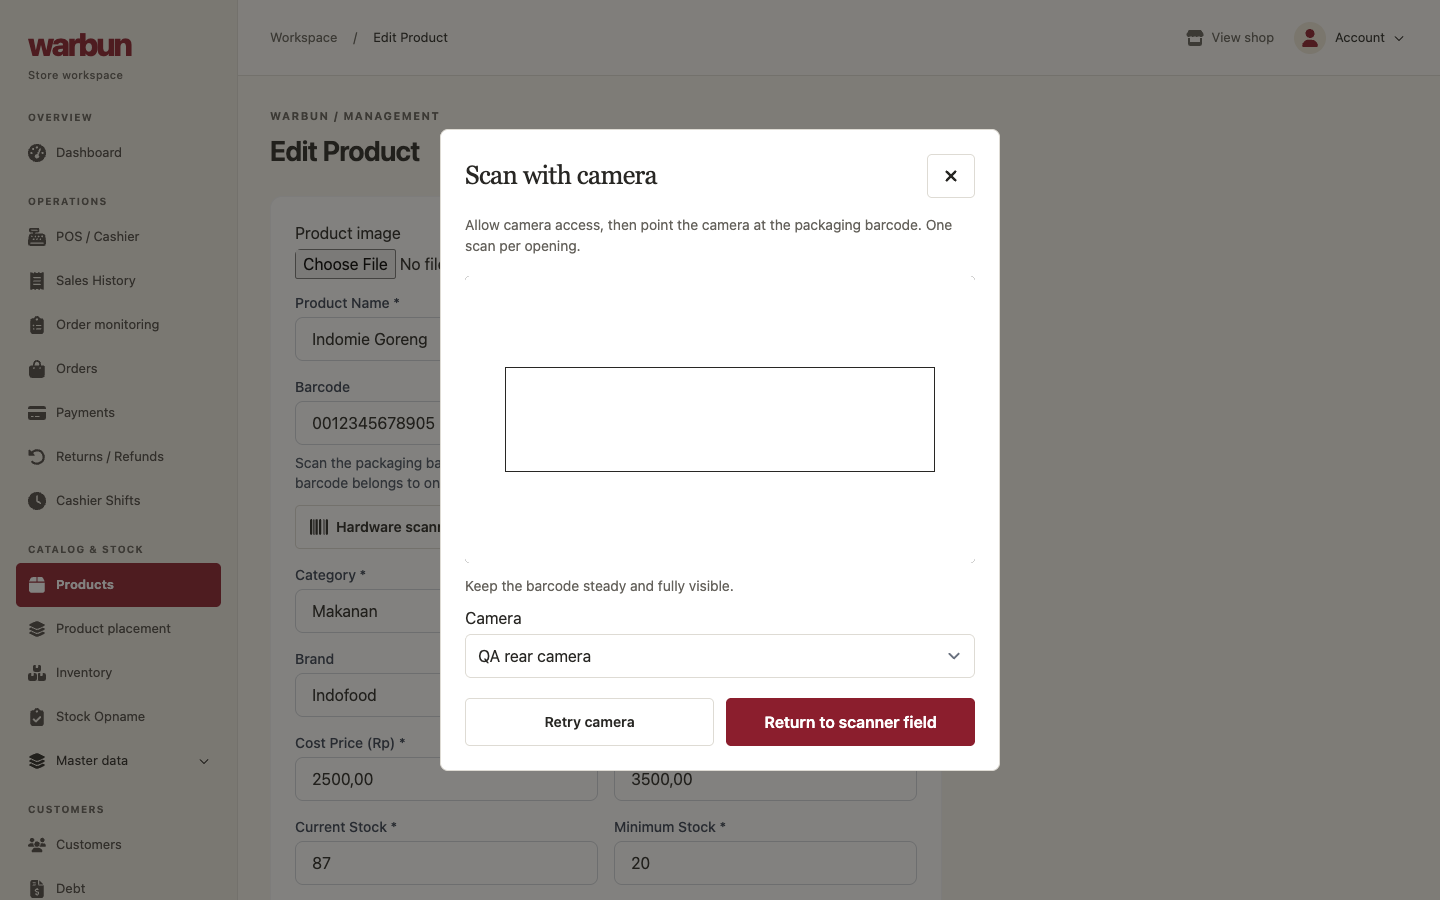
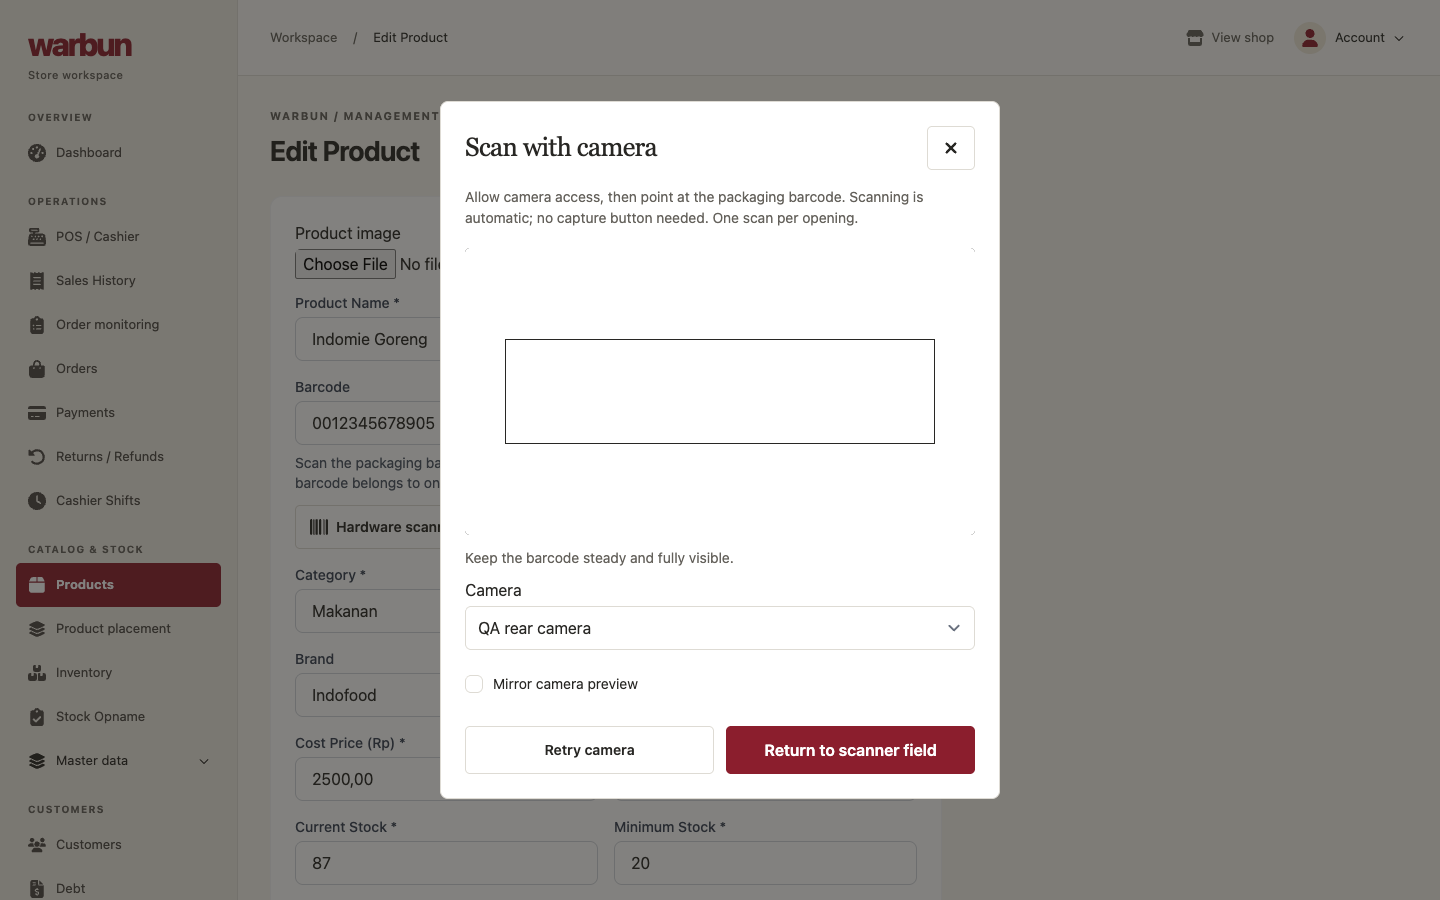
Add persisted camera mirror toggle and clarify automatic scanning

Changed region(s): [[0.2812, 0.5911, 0.7188, 0.9022], [0.2812, 0.0933, 0.7188, 0.28]]

diff --git a/resources/css/app.css b/resources/css/app.css
@@ -6,6 +6,9 @@
 .pos-customer-dialog.barcode-camera-dialog { width: min(560px,calc(100% - 32px)); }
 .barcode-camera-preview { position: relative; margin-block: 20px 12px; background: #282724; border-radius: 5px; overflow: hidden; aspect-ratio: 16/9; }
 .barcode-camera-preview video { display: block; width: 100%; height: 100%; object-fit: contain; }
+.barcode-camera-preview.is-mirrored video { transform: scaleX(-1); }
+.barcode-camera-mirror { display: flex; align-items: center; gap: 10px; min-height: 44px; margin-top: 12px; font-size: 14px; cursor: pointer; }
+.barcode-camera-mirror input { width: 18px; height: 18px; min-height: 18px; flex-shrink: 0; accent-color: #8b1e2d; }
 .barcode-camera-guide { position: absolute; inset: 32% 8%; border: 2px solid white; outline: 1px solid #282724; pointer-events: none; }
 .barcode-camera-dialog #barcodeCameraStatus, .barcode-camera-dialog #barcodeCameraError { margin-block: 10px; font-size: 14px; }
 .barcode-camera-footer { display: flex; flex-wrap: wrap; gap: 12px; margin-top: 20px; }

diff --git a/resources/js/barcode-camera.js b/resources/js/barcode-camera.js
@@ -6,6 +6,15 @@ if (dialog) {
     const error = document.getElementById('barcodeCameraError');
     const devices = document.getElementById('barcodeCameraDevice');
     const retry = document.getElementById('retryBarcodeCamera');
+    const mirror = document.getElementById('barcodeCameraMirror');
+    const previewContainer = dialog.querySelector('.barcode-camera-preview');
+    const mirrorKey = 'warbun.camera.mirror';
+    try { mirror.checked = localStorage.getItem(mirrorKey) === 'true'; } catch {}
+    previewContainer.classList.toggle('is-mirrored', mirror.checked);
+    mirror.addEventListener('change', () => {
+        previewContainer.classList.toggle('is-mirrored', mirror.checked);
+        try { localStorage.setItem(mirrorKey, String(mirror.checked)); } catch {}
+    });
     let version = 0;
     let stream;
     let controls;

diff --git a/resources/views/components/barcode-camera.blade.php b/resources/views/components/barcode-camera.blade.php
@@ -1,9 +1,10 @@
 <dialog id="barcodeCameraDialog" class="pos-customer-dialog barcode-camera-dialog" aria-labelledby="barcodeCameraTitle" aria-describedby="barcodeCameraHelp">
     <div class="pos-customer-heading"><h2 id="barcodeCameraTitle">{{ __('Scan with camera') }}</h2><button id="closeBarcodeCamera" type="button" class="button-secondary" aria-label="{{ __('Close camera') }}"><x-icon name="xmark" /></button></div>
-    <p id="barcodeCameraHelp">{{ __('Allow camera access, then point the camera at the packaging barcode. One scan per opening.') }}</p>
+    <p id="barcodeCameraHelp">{{ __('Allow camera access, then point at the packaging barcode. Scanning is automatic; no capture button needed. One scan per opening.') }}</p>
     <div class="barcode-camera-preview"><video id="barcodeCameraVideo" autoplay muted playsinline aria-label="{{ __('Camera preview') }}"></video><span class="barcode-camera-guide" aria-hidden="true"></span></div>
     <p id="barcodeCameraStatus" role="status" aria-live="polite"></p><p id="barcodeCameraError" role="alert" class="text-red-700"></p>
     <label class="field">{{ __('Camera') }}<select id="barcodeCameraDevice" disabled><option value="">{{ __('Back camera preferred') }}</option></select></label>
+    <label class="barcode-camera-mirror"><input id="barcodeCameraMirror" type="checkbox">{{ __('Mirror camera preview') }}</label>
     <div class="barcode-camera-footer"><button id="retryBarcodeCamera" type="button" class="button-secondary">{{ __('Retry camera') }}</button><button id="cancelBarcodeCamera" type="button" class="button-primary">{{ __('Return to scanner field') }}</button></div>
 </dialog>
 <script id="barcode-camera-config" type="application/json">{!! json_encode([

diff --git a/CAMERA_BARCODE_QA.md b/CAMERA_BARCODE_QA.md
@@ -4,7 +4,9 @@
 
 ## Bukti
 
-- [Runner kamera](scripts/qa-camera.cjs), [hasil](docs/qa/camera-results.json): **12 skenario PASS**. Chrome menerima synthetic `MediaStream` dari canvas, dengan barcode Code 128/EAN-13 valid. Decoder ZXing production sungguhan memproses frame video; hasil decode tidak dimock. Kasus ini tidak menguji webcam fisik.
+Update mirror: **13 skenario kamera PASS** dijalankan ulang setelah perubahan, termasuk keyboard Space pada checkbox, preview horizontal terbalik tanpa request kamera baru, camera switch, pilihan tersimpan saat Retry/navigation, toggle off dan decoding Code 128/EAN-13 ketika mirror aktif. Lima lebar tetap tanpa overflow; build production, syntax JS, scoped Pint dan diff check PASS. Full backend suite 97/799 dan tujuh skenario checkout/receipt di bawah adalah baseline fitur kamera sebelumnya, tidak diulang untuk perubahan preview ini. Storage-blocked browser dan kamera fisik tidak diuji pada update ini.
+
+- [Runner kamera](scripts/qa-camera.cjs), [hasil](docs/qa/camera-results.json): **13 skenario PASS**. Chrome menerima synthetic `MediaStream` dari canvas, dengan barcode Code 128/EAN-13 valid. Decoder ZXing production sungguhan memproses frame video; hasil decode tidak dimock. Kasus ini tidak menguji webcam fisik.
 - Edit membaca Code 128 `0012345678905`, mempertahankan nol, tidak auto-save, menghentikan track lalu menyimpan lewat controller existing. Create membaca EAN-13 `5901234123457`; duplicate barcode ditolak server, barcode unique dapat disimpan. Hardware Enter pada form tidak submit.
 - Izin ditolak, kamera tidak ditemukan, kamera sibuk, Retry, preferensi belakang/no audio, pilihan device, Escape, izin yang selesai setelah Close, reopen saat inisialisasi video tertunda, dan backgrounding diuji dengan mock API kamera. Semua track yang diperoleh berakhir `ended` setelah penutupan/success.
 - POS memblokir kamera tanpa shift, memasukkan satu unit per pembukaan, mendukung pembukaan ulang dan scan keyboard pada lookup/keranjang yang sama. Barcode 404 menjaga quantity lama. Kamera tidak otomatis dibuka saat halaman dimuat; chunk decoder baru dimuat setelah permintaan kamera.
@@ -26,10 +28,10 @@ Scope dua pilihan scan, dialog kamera, responsivitas editor produk dan tambahan 
 - R-23 PASS: opsi kamera/hardware eksplisit diminta; icon kamera/barcode berasal dari Font Awesome existing family, fixture video QA dijelaskan.
 - R-24 PASS: tidak menambah route/navigation baru; POS/create/edit nyata dibuka browser.
 - R-25 PASS: memakai pasangan CTA/teks existing dari DESIGN_SYSTEM.md; tidak menambah warna teks baru. Guide video memiliki garis putih dan outline charcoal untuk posisi barcode, bukan label teks.
-- R-26 PASS: hardware focus, open, device change, Retry, Return, X/Escape, fill field, save/update dan POS lookup dicoba; bukan kontrol dummy.
+- R-26 PASS: hardware focus, open, device change, mirror on/off, Retry, Return, X/Escape, fill field, save/update dan POS lookup dicoba; bukan kontrol dummy.
 - R-27 PASS: permission wait/scanning, denied/missing/busy, insecure/unsupported dan barcode error punya feedback. Field/cart tetap dipertahankan.
 - R-28 PASS: tidak menambah FAQ.
-- R-32 PASS: native dialog/buttons/select, label, status/alert, focus-visible existing; Escape dan focus restoration diuji.
+- R-32 PASS: native dialog/buttons/select/checkbox, label, status/alert, focus-visible existing; mirror dengan Space, Escape dan focus restoration diuji.
 - R-33 PASS: source aplikasi ditulis melalui apply_patch; runner hanya membuat fixtures/test results.
 - R-34 PASS: light theme existing; warna gelap sebatas permukaan video sebelum frame tersedia.
 - R-35 PASS: full suite, build, decoder nyata melalui synthetic video, browser create/edit/POS, validation dan responsive checks dijalankan.

diff --git a/CAMERA_BARCODE.md b/CAMERA_BARCODE.md
@@ -2,7 +2,9 @@
 
 POS dan form tambah/edit produk memiliki dua tombol: **Scanner hardware** memfokuskan kolom barcode, **Scan dengan kamera** membuka modal kamera. Scanner USB/Bluetooth tetap menggunakan mode keyboard dengan akhiran Enter. Barcode juga dapat diketik manual.
 
-Kamera dipilih setelah pengguna menekan tombol dan memberi izin browser. Kamera belakang diprioritaskan bila tersedia; pilihan Kamera memungkinkan berpindah perangkat. Bingkai membantu menempatkan seluruh barcode kemasan di area video. Tahan perangkat dan hindari pantulan cahaya.
+Kamera dipilih setelah pengguna menekan tombol dan memberi izin browser. Setelah itu barcode terdeteksi otomatis, tanpa tombol foto atau konfirmasi scan. Kamera belakang diprioritaskan bila tersedia; pilihan Kamera memungkinkan berpindah perangkat. Bingkai membantu menempatkan seluruh barcode kemasan di area video. Tahan perangkat dan hindari pantulan cahaya.
+
+Centang **Cerminkan tampilan kamera** untuk membalik preview secara horizontal. Default tidak dicerminkan; pilihan disimpan pada browser yang sama dan berlaku pada kasir maupun form produk. Ganti kamera, Retry atau membuka scanner lagi mempertahankan pilihan. Toggle tidak memulai ulang kamera atau mengubah frame yang dibaca decoder. Bila browser memblokir storage, toggle tetap bekerja pada halaman saat ini.
 
 Satu barcode dibaca setiap kali modal dibuka. Kamera berhenti setelah berhasil, saat X/Kembali/Escape, saat halaman tersembunyi atau saat navigasi. Kamera yang baru mendapat izin setelah modal ditutup juga langsung dihentikan. Pengambilan video tidak meminta audio, dan frame diproses lokal di browser tanpa upload ke server.
 

diff --git a/DESIGN_SYSTEM.md b/DESIGN_SYSTEM.md
@@ -68,4 +68,6 @@ Font Awesome Free 6.7.2 Solid icons are served from a local SVG sprite. The shar
 
 ## Camera and hardware barcode scanning
 
+The mirror checkbox lets operators choose a familiar preview orientation, especially on front-facing cameras. A native labeled 44px target supports touch and keyboard; it sits beside device controls, outside the video guide. Horizontal reflection applies only to the video preview, with no decorative animation or camera restart. The saved browser preference survives device changes and page navigation; help states that scanning is automatic so operators do not search for a capture button.
+
 ENERGY 2 / RHYTHM 3 / MOTION 1 continues the accepted retail direction. Two labeled controls distinguish keyboard hardware from the device camera. A native dialog puts actual video beside short permission/error feedback, camera selection and an explicit return action. Its guide frame helps align horizontal packaging barcodes; the media surface is real camera content, not a decorative dark theme. Burgundy marks Return, neutral borders mark secondary camera actions, and existing type/radius/spacing match product and customer dialogs. Controls wrap on phones; product editor fields become one column below 640px. Font Awesome camera/barcode paths extend the existing licensed sprite. One result per opening avoids quantity mistakes, and Escape/page-hidden teardown makes the camera lifecycle visible and predictable. Evidence and delivery gate: [CAMERA_BARCODE_QA.md](CAMERA_BARCODE_QA.md).

diff --git a/QA_REPORT.md b/QA_REPORT.md
@@ -1,5 +1,7 @@
 # Warbun — QA development
 
+Latest mirror preview update: 13 camera browser scenarios PASS with keyboard toggle, persisted preference, camera switching and real Code 128/EAN-13 decoding while mirrored. Five-width layouts, build, JS syntax, scoped Pint and diff check PASS. Backend/checkout results below remain the previous baseline; no backend logic changed. Evidence: [CAMERA_BARCODE_QA.md](CAMERA_BARCODE_QA.md).
+
 Latest camera/hardware scan: [CAMERA_BARCODE_QA.md](CAMERA_BARCODE_QA.md), [usage/preview](CAMERA_BARCODE.md). Full 97 tests / 799 assertions, 12 synthetic-camera browser scenarios, build and pinned dependency install PASS. Real Code 128/EAN-13 video decoding, product validation, one-scan POS, permission/stream teardown and five-width layouts verified. Physical device testing remains outside this evidence.
 
 Latest shelf minimap, product detail/add dialog, placement management and sample seeder: [SHELF_QA.md](SHELF_QA.md), [workflow](SHELF_WORKFLOW.md). Full 97 tests / 799 assertions, build, scoped Pint, feature/category/barcode browser checks and five-width layout PASS on isolated SQLite. Existing MySQL migration/seeder not applied: local MySQL fails to start.

diff --git a/tasklist.md b/tasklist.md
@@ -66,6 +66,7 @@ Source requirement: [PRD.md](PRD.md). Implementation decisions: [ARCHITECTURE.md
 ## Kamera barcode
 
 - [x] Pilihan hardware/kamera pada POS dan form tambah/edit produk
+- [x] Toggle mirror preview tersimpan, keyboard/device/retry/navigation dan deteksi otomatis saat mirror diuji
 - [x] Decoder lokal, pemilihan kamera, satu hasil, cleanup permission/modal/visibility
 - [x] Antrean scan kasir existing, barcode input tanpa auto-save dan validation unique
 - [x] 12 skenario kamera simulasi, real decoding Code 128/EAN-13, responsive dan regression backend
